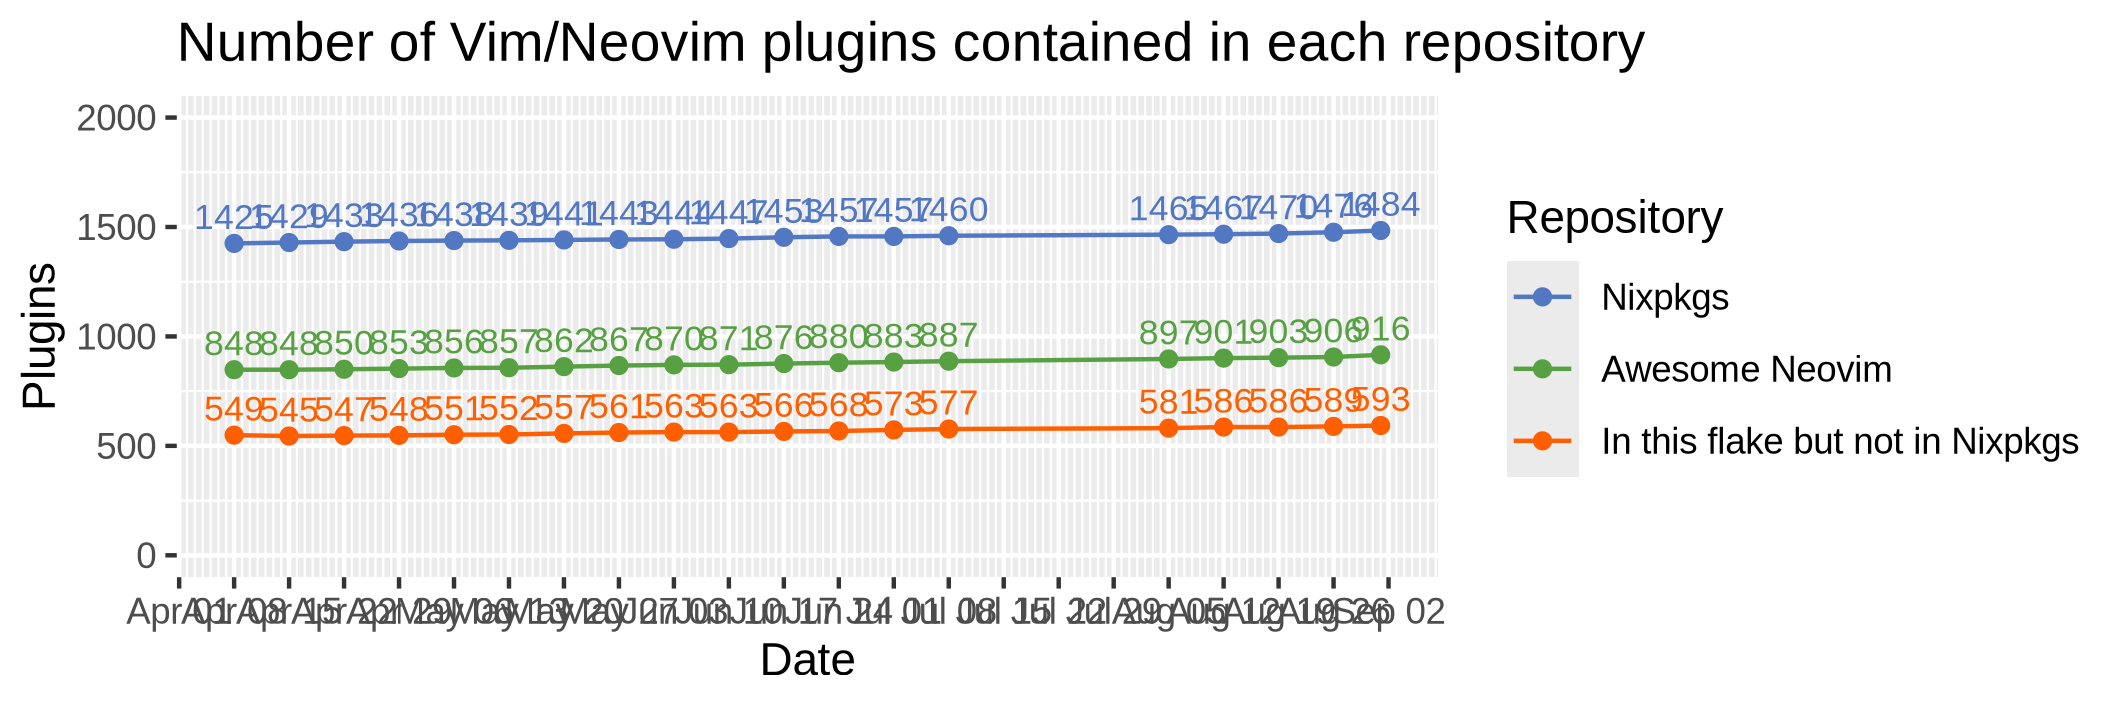
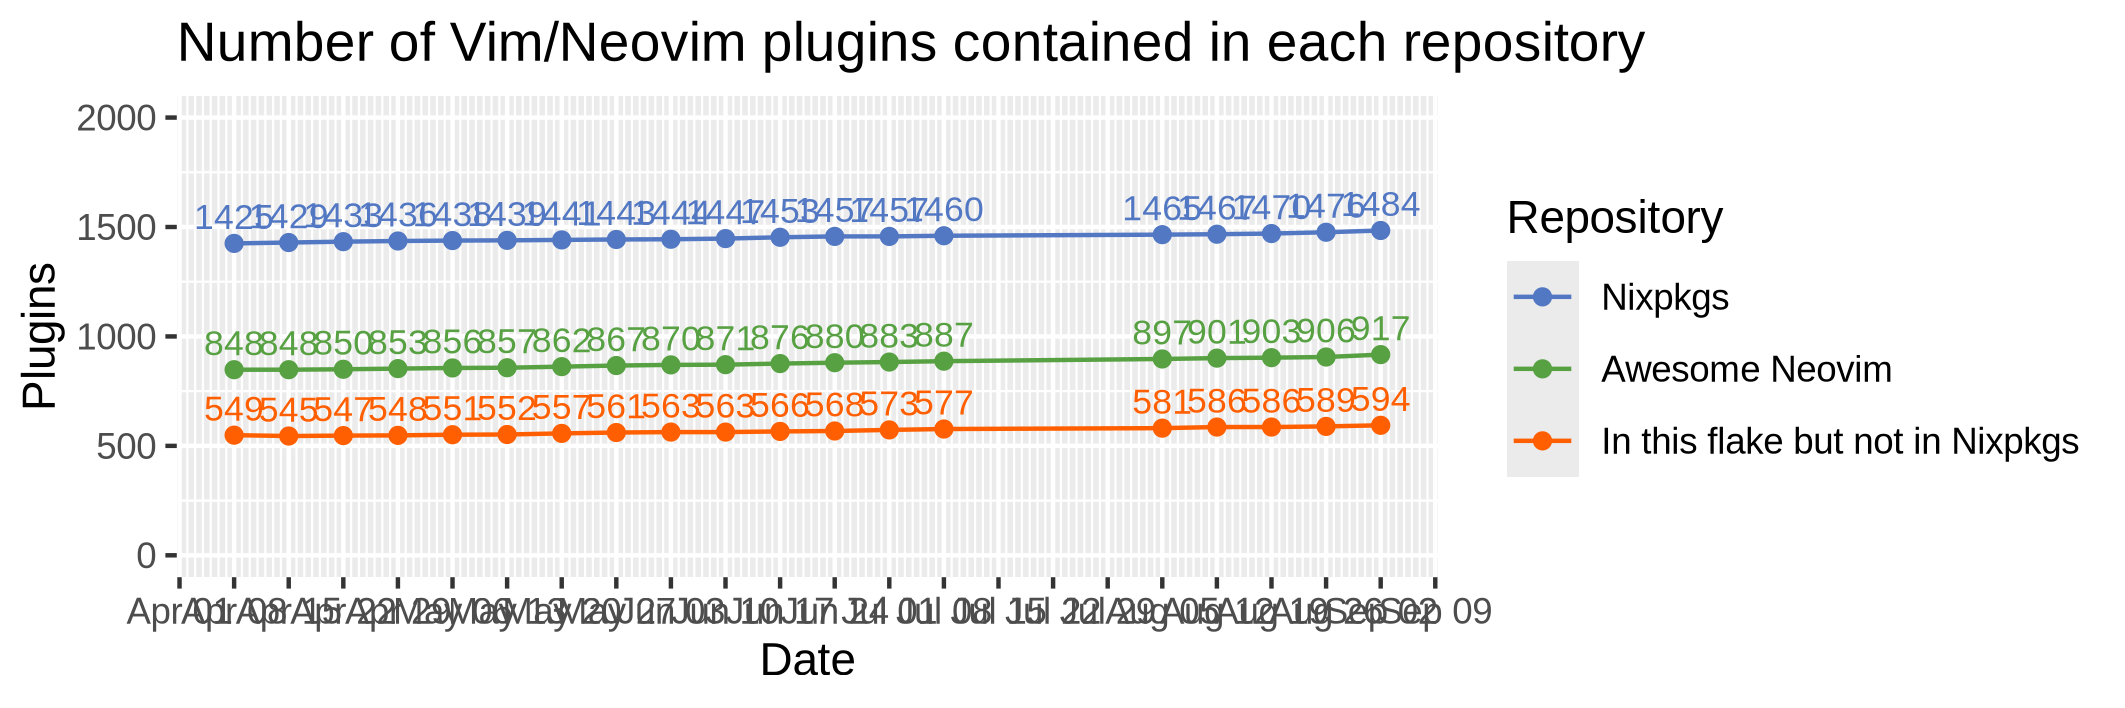
auto: update vim plugins

diff --git a/README.md b/README.md
@@ -8,7 +8,7 @@ Nix flake of Awesome Neovim plugins.
 
 [b1]: https://img.shields.io/github/actions/workflow/status/m15a/flake-awesome-neovim-plugins/check.yml?style=flat-square&logo=github&label=CI
 [b2]: https://github.com/m15a/flake-awesome-neovim-plugins/actions/workflows/check.yml
-[b3]: https://img.shields.io/badge/Awesome_Neovim_plugins-916-57A143?style=flat-square
+[b3]: https://img.shields.io/badge/Awesome_Neovim_plugins-917-57A143?style=flat-square
 [b4]: https://img.shields.io/endpoint?url=https://flakehub.com/f/m15a/flake-awesome-neovim-plugins/badge&style=flat-square
 [b5]: https://flakehub.com/flake/m15a/flake-awesome-neovim-plugins
 
